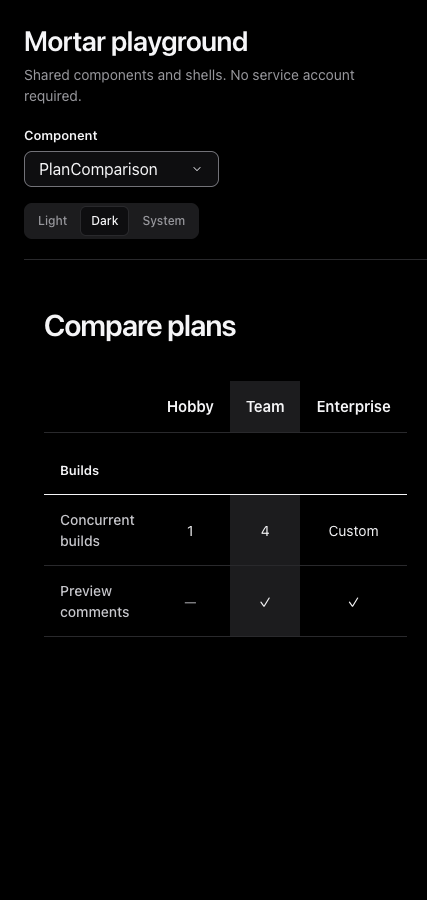
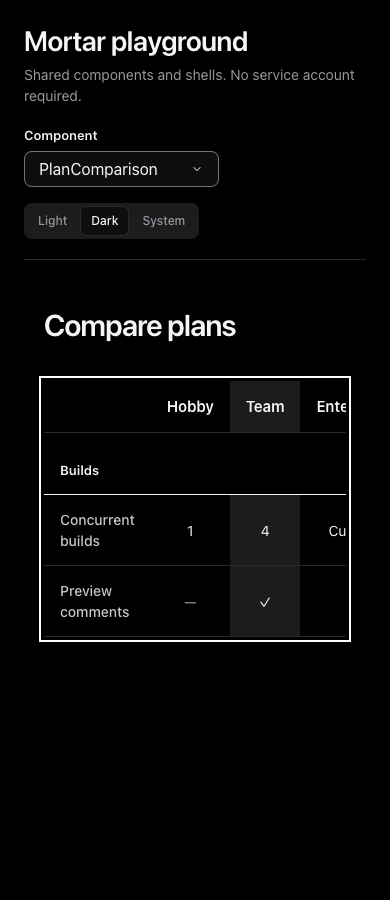
Constrain shared marketing sections to the viewport

diff --git a/src/components.css b/src/components.css
@@ -865,7 +865,8 @@
   .m-marketing-section,
   .m-feature-section,
   .m-faq {
-    max-width: 1280px;
+    min-width: 0;
+    max-width: min(100%, 1280px);
     margin: auto;
     padding: 80px 32px;
     border-top: 1px solid var(--m-line);

diff --git a/docs/review/extended-kits/README.md b/docs/review/extended-kits/README.md
@@ -2,7 +2,7 @@
 
 Captured by `tests/browser/extended.spec.mjs` in local Chrome. This is review evidence, not component approval.
 
-Known visual follow-up: PlanComparison at 390px produces document-level horizontal overflow. Resolve before release.
+PlanComparison is constrained by the shared marketing-section sizing. At 390px the page fits the viewport and the comparison table scrolls inside its keyboard-focusable region. The browser suite checks document width at mobile and desktop sizes in both appearances.
 
 ## CommandPalette-dark-at-1280px
 
